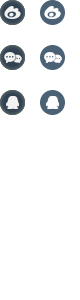
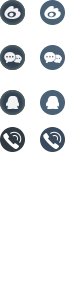
3.12_f
标的详情、头部

Changed region(s): [[0.5, 0.42, 0.825, 0.51], [0.0, 0.42, 0.325, 0.51]]

diff --git a/Public/Home/css/style.css b/Public/Home/css/style.css
@@ -15,15 +15,22 @@ a:hover{color:#66ccfb;text-decoration:none;}
 .header_out .header ul li{float:left;line-height:38px;height:38px;}
 .header_out .header ul li a{color: #FFF;}
 .header_out .header ul li a:hover{color: #66ccfb;}
-.header_out .header ul .weibo{width:100px; padding-left:30px;}
+/*--微博--*/
+.header_out .header ul .weibo{width:80px; padding-left:30px;}
 .header_out .header ul .weibo div{width:30px;background: url(../images/top_icons.png) repeat scroll 0px 8px transparent;height:38px;float: left;}
 .header_out .header ul .weibo div:hover{width:30px;background: url(../images/top_icons.png) repeat scroll 40px 8px transparent;height:38px;float: left;}
-.header_out .header ul .weixin{width:100px;}
+/*--微信--*/
+.header_out .header ul .weixin{width:80px;}
 .header_out .header ul .weixin div{width:30px;background: url(../images/top_icons.png) repeat scroll 0px -36px transparent;height:38px;float: left;}
 .header_out .header ul .weixin div:hover{width:30px;background: url(../images/top_icons.png) repeat scroll 40px -36px transparent;height:38px;float: left;}
+/*--QQ--*/
+.header_out .header ul .QQ{width:80px;}
+.header_out .header ul .QQ div{width:30px;background: url(../images/top_icons.png) repeat scroll 0px -81px transparent;height:38px;float: left;}
+.header_out .header ul .QQ div:hover{width:30px;background: url(../images/top_icons.png) repeat scroll 40px -81px transparent;height:38px;float: left;}
+/*--热线--*/
 .header_out .header ul .call{width:200px;}
-.header_out .header ul .call div{width:25px;background: url(../images/top_icons.png) repeat scroll 0px -81px transparent;height:38px;float: left;}
-.header_out .header ul .call div:hover{width:25px;background: url(../images/top_icons.png) repeat scroll 40px -81px transparent;height:38px;float: left;}
+.header_out .header ul .call div{width:25px;background: url(../images/top_icons.png) repeat scroll 0px -119px transparent;height:38px;float: left;}
+.header_out .header ul .call div:hover{width:25px;background: url(../images/top_icons.png) repeat scroll 40px -119px transparent;height:38px;float: left;}
 .header_out .header ul .hot{width:100px;}
 .header_out .header ul .hot div{width:100px;background: url(../images/img/hot029.gif) no-repeat scroll 20px 3px transparent;height:38px;float: left; margin-right: -80px;}
 .header_out .header ul .hot div:hover{width:100px;background: url(../images/img/hot029.gif) no-repeat scroll 20px 0px transparent;height:38px;float: left;margin-right: -80px;}
@@ -421,15 +428,15 @@ a:hover{color:#66ccfb;text-decoration:none;}
 .xszy_cont .xszy_cont_r .xszy_cont_r_dl ul{width:859px;height:auto;padding-left:44px;display:none;}*/
 
 /*-------------标的详情--------------------*/
-.bdxq_cont_out{width:100%px;height:auto;border-top:1px solid #b1b1b1;margin-top:20px;}
-.bdxq_cont{width:1070px;height:auto;margin:0 auto 70px;overflow:hidden;}
-.bdxq_cont h2{width:1070px;height:65px;line-height:65px;border-bottom:1px solid #b1b1b1;font-size:22px;color:#333;font-weight:normal;}
-.bdxq_cont dl{width:1070px;height:370px;overflow:hidden;margin-top:40px;border-bottom:1px solid #dad2ce;}
-.bdxq_cont dl dt{float:left;width:245px;height:370px;border-right:1px dashed #dad2ce;}
+.bdxq_cont_out{width:100%;height:auto;background: #fff;}
+.bdxq_cont{width:1070px;height:auto;margin:0 auto 70px;overflow:hidden;padding-top: 20px;}
+.bdxq_cont h2{width:1070px;height:65px;line-height:65px;border-bottom:1px solid #ddd;font-size:20px;color:#444;font-weight:normal;}
+.bdxq_cont dl{width:1070px;height:370px;overflow:hidden;margin-top:40px;border-bottom:1px solid #ddd;}
+.bdxq_cont dl dt{float:left;width:245px;height:370px;border-right:1px dashed #ddd;}
 .bdxq_cont dl dt .header{width:200px;height:200px;background:url(../images/200x200px.png) no-repeat;margin-bottom:12px;}
 .bdxq_cont dl dt ul{width:245px;height:110px;}
 .bdxq_cont dl dt ul li{width:245px;height:27px;line-height:27px;font-size:16px;font-weight:normal;}
-.bdxq_cont a{color:#333;font-weight:normal;font-size:14px;margin-right:20px;float:left;}
+.bdxq_cont a{color:#444;font-weight:normal;margin-right:20px;float:left;background: url(../images/90.gif) no-repeat;width: 81px;height: 23px;text-align: center;line-height: 23px;margin-top: 5px;}
 .bdxq_cont dl dd{width:790px;height:350;float:left;padding:20px 0 0 30px;}
 .bdxq_cont dl dd ul{width:790px;height:240px;overflow:hidden;}
 .bdxq_cont dl dd ul li{float:left;width:338px;height:34px;line-height:34px;font-size:14px;overflow:hidden;}
@@ -441,11 +448,11 @@ a:hover{color:#66ccfb;text-decoration:none;}
 .bdxq_cont dl dd ul li .data{float:left;}
 .bdxq_cont dl dd p{width:790px;height:34px;line-height:34px;font-size:14px;color:#ef681f;overflow:hidden;}
 .bdxq_cont dl dd p .share{width:16px;height:16px;float:left;margin:9px 10px 0 0;cursor:pointer;}
-.bdxq_cont dl dd p .more{float:left;line-height:32px;}
+.bdxq_cont dl dd p .more{float:left;line-height:32px;background: none;margin: 0;text-align: left;}
 
 /*---------------项目详情----------------------------*/
-.bdxq_cont .xmxq_out{overflow:hidden;border-bottom:1px solid #dad2ce;margin-bottom:30px;}
-.bdxq_cont .xmxq{width:620px;height:368px;border-right:1px solid #dad2ce;float:left;}
+.bdxq_cont .xmxq_out{overflow:hidden;margin-bottom:30px;}
+.bdxq_cont .xmxq{width:620px;height:368px;border-right:1px solid #ddd;float:left;}
 .bdxq_cont .xmxq h3{width:620px;height:63px;line-height:63px;font-size:20px;font-weight:normal;}
 .bdxq_cont .xmxq p{width:445px;padding:0 90px 0 46px;height:auto;line-height:27px;font-size:16px;}
 .jdbox{
@@ -458,13 +465,13 @@ a:hover{color:#66ccfb;text-decoration:none;}
 
 
 /*---------------标的详情-------------------------------*/
-.bdxq_cont .bdxq{width:1070px;height:auto;border-bottom:1px solid #dad2ce;padding-bottom:21px;}
+.bdxq_cont .bdxq{width:1070px;height:auto;border-bottom:1px solid #ddd;padding-bottom:21px;}
 .bdxq_cont .bdxq h4{font-size:20px;font-weight:normal;width:1070px;height:36px;line-height:36px;padding-top:21px;}
 .bdxq_cont .bdxq p{width:942px;height:auto;line-height:30px;padding:0 64px;font-size:16px;}
 
 /*---------------留言板--------------------------------*/
-.bdxq_cont .message{width:px;height:auto;border-bottom:1px solid #dad2ce;display:none;}
-.bdxq_cont .message h4{font-size:20px;font-weight:normal;width:1070px;height:36px;line-height:36px;border-bottom:1px solid #dad2ce;padding-top:21px;}
+.bdxq_cont .message{width:px;height:auto;border-bottom:1px solid #ddd;display:none;}
+.bdxq_cont .message h4{font-size:20px;font-weight:normal;width:1070px;height:36px;line-height:36px;border-bottom:1px solid #ddd;padding-top:21px;}
 .bdxq_cont .message p{font-size:16px;width:1050px;height:36px;line-height:36px;padding-left:20px;}
 .bdxq_cont .message .txta{width:1028px;height:178px;border:1px solid #b1afae;background:#d3cbc7;resize:none;margin:0 20px;}
 .bdxq_cont .message .submit{width:1070px;height:60px;overflow:hidden;}
@@ -473,39 +480,43 @@ a:hover{color:#66ccfb;text-decoration:none;}
 .bdxq_cont .message .submit .sub{float:right;}
 
 /*-------------------投资记录-----------------------------*/
-.bdxq_cont .tzjl{width:1068px;height:auto;border:1px solid #dad2ce;border-top:0;}
-.bdxq_cont .tzjl h4{font-size:20px;font-weight:normal;width:1060px;padding-left:10px;height:57px;line-height:57px;border-bottom:1px solid #dad2ce;}
-.bdxq_cont .tzjl .tit{width:1070px;height:53px;border-bottom:1px solid #dad2ce;overflow:hidden;font-size:16px;line-height:53px;}
+.bdxq_cont .tzjl{width:1068px;height:auto;border:1px solid #ddd;border-top:0;}
+.bdxq_cont .tzjl h4{font-size:20px;font-weight:normal;width:1060px;padding-left:10px;height:57px;line-height:57px;border-bottom:1px solid #ddd;}
+.bdxq_cont .tzjl .tit{width:1070px;height:53px;border-bottom:1px solid #ddd;overflow:hidden;font-size:16px;line-height:53px;}
 .bdxq_cont .tzjl .tit li{float:left;width:175px;height:53px;line-height:53px;text-align:center;}
-.bdxq_cont .tzjl .con{width:1070px;height:53px;border-bottom:1px solid #dad2ce;overflow:hidden;font-size:16px;line-height:53px;}
+.bdxq_cont .tzjl .con{width:1070px;height:53px;border-bottom:1px solid #ddd;overflow:hidden;font-size:16px;line-height:53px;}
 .bdxq_cont .tzjl .con li{float:left;width:175px;height:53px;line-height:53px;text-align:center;color:#626262;}
 
 .bdxq_cont .tzjl .tzjl_fy{width:px;height:20px;line-height:20px;overflow:hidden;margin:20px 0 0 450px;;}
 .bdxq_cont .tzjl .tzjl_fy li{width:7px;padding:0 5px;height:20px;line-height:20px;float:left;cursor:pointer;}
 
 /*---------------交易记录-------------------------------------*/
-.bdxq_cont .jyjl{width:249px;height:368px;float:left;padding:0 100px;}
+/*.bdxq_cont .jyjl{width:249px;height:368px;padding:0 100px;}
 .bdxq_cont .jyjl p{width:449px;height:auto;line-height:27px;font-size:16px;}
-.bdxq_cont .jyjl h4{font-weight:normal;font-size:20px;height:63px;line-height:63px;}
+.bdxq_cont .jyjl h4{font-weight:normal;font-size:20px;height:63px;line-height:63px;}*/
+.bdxq_cont .jyjl_table{width: auto;height: auto;margin-bottom: 30px;}
+.bdxq_cont .jyjl_table tr{height: 40px;line-height: 40px;}
+.bdxq_cont .jyjl_table tr th{font-weight: normal;font-size: 18px;padding-top: 10px;}
+.bdxq_cont .jyjl_table tr td{width: 175px;font-weight: normal;font-size: 14px;text-align: center;border: 1px solid #ddd;}
 
 /*---------------审核-----------------------------------*/
-.bdxq_cont .sh{width:1068px;height:auto;border-left:1px solid #dad2ce;border-right:1px solid #dad2ce;}
+.bdxq_cont .sh{width:1068px;height:auto;border-left:1px solid #ddd;border-right:1px solid #ddd;}
 .bdxq_cont .tab{width:1070px;height:auto;padding:0;}
-.bdxq_cont .title{width:1058px;padding-left:10px;height:53px;border:1px solid #dad2ce;overflow:hidden;font-size:20px;}
+.bdxq_cont .title{width:1058px;padding-left:10px;height:53px;border:1px solid #ddd;overflow:hidden;font-size:20px;}
 .bdxq_cont .title li{float:left;width:86px;height:53px;line-height:53px;padding-right:20px;cursor:pointer;}
 .bdxq_cont .title .current{color:#ef681f;}
 
 /*------------审核记录--------------------------*/
-.bdxq_cont .tab .tit{width:1070px;height:53px;border-bottom:1px solid #dad2ce;overflow:hidden;font-size:16px;line-height:53px;}
+.bdxq_cont .tab .tit{width:1070px;height:53px;border-bottom:1px solid #ddd;overflow:hidden;font-size:16px;line-height:53px;}
 .bdxq_cont .tab .tit li{float:left;width:232px;height:53px;line-height:53px;text-align:center;}
 
-.bdxq_cont .tab .con{width:1070px;height:53px;border-bottom:1px solid #dad2ce;overflow:hidden;font-size:16px;line-height:53px;}
+.bdxq_cont .tab .con{width:1070px;height:53px;border-bottom:1px solid #ddd;overflow:hidden;font-size:16px;line-height:53px;}
 .bdxq_cont .tab .con li{float:left;width:232px;height:53px;line-height:53px;text-align:center;}
 
 /*-------------还款计划--------------------------*/
-.bdxq_cont .tab .tit2{width:1070px;height:53px;border-bottom:1px solid #dad2ce;overflow:hidden;font-size:16px;line-height:53px;}
+.bdxq_cont .tab .tit2{width:1070px;height:53px;border-bottom:1px solid #ddd;overflow:hidden;font-size:16px;line-height:53px;}
 .bdxq_cont .tab .tit2 li{float:left;width:210px;height:53px;text-align:center;line-height:53px;}
-.bdxq_cont .tab .con2{width:1070px;height:53px;border-bottom:1px solid #dad2ce;overflow:hidden;font-size:16px;line-height:53px;}
+.bdxq_cont .tab .con2{width:1070px;height:53px;border-bottom:1px solid #ddd;overflow:hidden;font-size:16px;line-height:53px;}
 .bdxq_cont .tab .con2 li{float:left;width:210px;height:53px;text-align:center;}
 
 

diff --git a/Application/Home/View/default/Borrow/detail.html b/Application/Home/View/default/Borrow/detail.html
@@ -19,7 +19,7 @@
                 <dd>
                     <ul><volist name="list3" id="vb">
                         <li><h3>{$vb.borrow_name}</h3></li>
-                        <li><h3>（机构担保借款）</h3><if condition="$vb.borrow_status eq 0"><a  href="{:U('Finance/invest?id='.$vb['id'])}"><img alt="" src="__PUBLIC__/Home/images/invest.png"></a>
+                        <li><h3>（机构担保借款）</h3><if condition="$vb.borrow_status eq 0"><a  href="{:U('Finance/invest?id='.$vb['id'])}" style="background: none;width: 92px;height: 23px;"><img alt="" src="__PUBLIC__/Home/images/invest.png"></a>
                 	    <elseif condition="$vb.borrow_status eq 2"/>
                 	    <img alt="" src="__PUBLIC__/Home/images/checking.png">
                 	     <elseif condition="$vb.borrow_status eq 4"/>
@@ -48,16 +48,16 @@
             </dl>
         	
             <!--项目详情-->
-           <div class="xmxq_out">
-               <div class="xmxq">
+            <div class="xmxq_out">
+                <!--<div class="xmxq">
                     <h3>项目详情</h3><volist name="list3" id="vb">
                     <p>借款人用户名：<span>{$vb.borrow_uid|get_borrow_username}</span></p>
                     <p>借款标类型：<span>其他个人经营性贷款</span></p>
                     <p>借款说明：<span>{$vb.borrow_info}</span></p>
                     <p>借款用途：<span>{$vb.borrow_use}</span></p>
                     <p>还款来源：<span>营业收入</span></p></volist> 
-                </div>
-                <div class="jyjl">
+                </div>-->
+                <!--<div class="jyjl">
                     <h4>工合交易信用记录</h4>
                     <p>发布借款笔数：<span>3</span>笔</p>
                     <p>累计逾期次数：<span>0</span></p>
@@ -65,7 +65,28 @@
                     <p>当前是否有逾期：<span>无</span></p>
                     <p>累计借入总额：<span>￥0.00</span></p>
                     <p>当前逾期待还金额：<span>0.00</span></p>
-                </div>
+                </div>-->
+                <table border="0" cellspacing="0" cellpadding="0" class="jyjl_table">
+                	<tr>
+                		<th>工合交易信用记录</th>
+                	</tr>
+                	<tr>
+                		<td>发布借款笔数</td>
+                		<td>累计逾期次数</td>
+                		<td>成功借入笔数</td>
+                		<td>当前是否有逾期</td>
+                		<td>累计借入总额</td>
+                		<td>当前逾期待还金额</td>
+                	</tr>
+                	<tr>
+                		<td>3</td>
+                		<td>0</td>
+                		<td>0</td>
+                		<td>无</td>
+                		<td>0.00</td>
+                		<td>0.00</td>
+                	</tr>
+                </table>
             </div>
         	
             <!--审核-->

diff --git a/Application/Home/View/default/Public/top.html b/Application/Home/View/default/Public/top.html
@@ -2,9 +2,10 @@
 <div class="header_out">
 	<div class="header">
 		<ul>
-			<li class="weibo"><div></div><a href="">官方微博</a></li>
-			<li class="weixin"><div></div><a href="">官方微信</a></li>
-			<li class="call"><div></div><a href="">客户热线：400-123-4567</a></li>
+			<li class="weibo"><div></div><a href="">微博</a></li>
+			<li class="weixin"><div></div><a href="">微信</a></li>
+			<li class="QQ"><div></div><a href="">&nbsp;QQ</a></li>
+			<li class="call"><div></div><a href="">&nbsp;热线：400-123-4567</a></li>
 			<li class="fankui hot" ><div></div><a href="javascript:void(0);">问题反馈</a></li>
 		</ul>
 		<if condition="is_login()">
